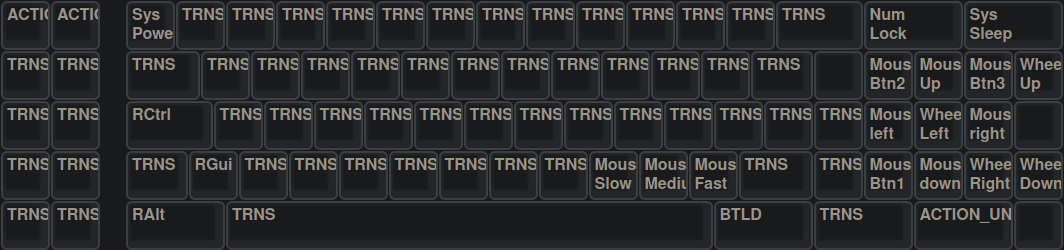
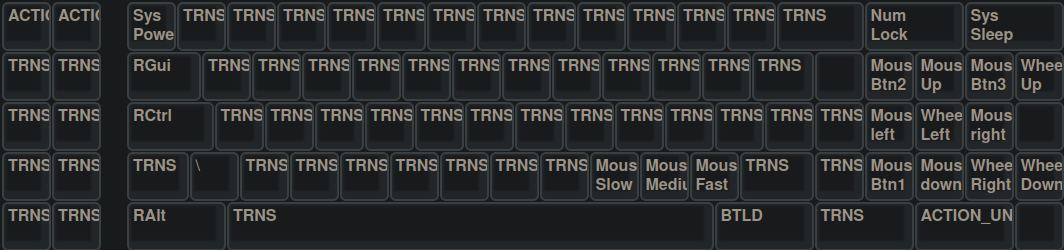
minor assignment changes

Changed region(s): [[0.1241, 0.0, 1.0, 1.0], [0.0, 0.392, 0.093, 1.0], [0.0, 0.0, 0.093, 0.364]]

diff --git a/unimap_plain.c b/unimap_plain.c
@@ -2,7 +2,7 @@
  * path:   /home/klassiker/.local/share/repos/zenith-xt-usb/unimap_plain.c
  * author: klassiker [mrdotx]
  * github: https://github.com/mrdotx/zenith-usb
- * date:   2021-03-01T12:59:21+0100
+ * date:   2021-03-02T00:04:50+0100
  */
 
 #include "unimap_trans.h"
@@ -14,7 +14,7 @@ enum macro_id {
 };
 
 #define AC_T1   ACTION_LAYER_TOGGLE(1)
-#define AC_LT1  ACTION_LAYER_TAP_KEY(1, KC_TAB)
+#define AC_LT1  ACTION_LAYER_TAP_KEY(1, KC__MUTE)
 #define AC_LT2  ACTION_LAYER_TAP_KEY(2, KC_INS)
 #define AC_M0   ACTION_MACRO(SETKB)
 #define AC_M1   ACTION_MACRO(AUTOSTART)
@@ -27,9 +27,9 @@ const action_t actionmaps[][UNIMAP_ROWS][UNIMAP_COLS] PROGMEM = {
 #endif
     UNIMAP(
               NO,  NO,  NO,  NO,  NO,  NO,  NO,  NO,  NO,  NO,  NO,  NO,
-    ESC,      F1,  F2,  F3,  F4,  F5,  F6,  F7,  F8,  F9,  F10, NO,  NO,            NO,  MUTE,NO,           NO,  NO,  NO,
+    ESC,      F1,  F2,  F3,  F4,  F5,  F6,  F7,  F8,  F9,  F10, NO,  NO,            NO,  LT1, NO,           NO,  NO,  NO,
     GRV, 1,   2,   3,   4,   5,   6,   7,   8,   9,   0,   MINS,EQL, NO,  BSPC,     NO,  NO,  NO,      T1,  NO,  PSCR,VOLD,
-    LT1, Q,   W,   E,   R,   T,   Y,   U,   I,   O,   P,   LBRC,RBRC,     LGUI,     NO,  NO,  NO,      HOME,UP,  PGUP,VOLU,
+    TAB, Q,   W,   E,   R,   T,   Y,   U,   I,   O,   P,   LBRC,RBRC,     LGUI,     NO,  NO,  NO,      HOME,UP,  PGUP,VOLU,
     CAPS,A,   S,   D,   F,   G,   H,   J,   K,   L,   SCLN,QUOT,     NO,  ENT,                         LEFT,PAUS,RGHT,NO,
     LSFT,NO,  Z,   X,   C,   V,   B,   N,   M,   COMM,DOT, SLSH,     NO,  RSFT,          NO,           END, DOWN,PGDN,NO,
     LCTL,NO,  LALT,NO,            SPC,           NO,  NO,  NO  ,NO  ,NO,  NO,       NO,  NO,  NO,           LT2, DEL, NO
@@ -37,30 +37,26 @@ const action_t actionmaps[][UNIMAP_ROWS][UNIMAP_COLS] PROGMEM = {
     /* function keys and num pad with tab key TAB(LT1) and layer toggle NUM LOCK(T1) */
     UNIMAP(
               NO,  NO,  NO,  NO,  NO,  NO,  NO,  NO,  NO,  NO,  NO,  NO,
-    TRNS,     F11, F12, F13, F14, F15, F16, F17, F18, F19, F20, NO,  NO,            NO,  SLCK,NO,           NO,  NO,  NO,
-    BSLS,P1,  P2,  P3,  P4,  P5,  P6,  P7,  P8,  P9,  P0,  TRNS,TRNS,NO,  TRNS,     NO,  NO,  NO,      TRNS,NO,  PAST,PMNS,
-    TAB, TRNS,TRNS,TRNS,TRNS,TRNS,TRNS,TRNS,TRNS,TRNS,TRNS,TRNS,TRNS,     LGUI,     NO,  NO,  NO,      7,   8,   9,   PPLS,
+    TRNS,     F11, F12, TRNS,TRNS,TRNS,TRNS,TRNS,TRNS,TRNS,TRNS,NO,  NO,            NO,  SLCK,NO,           NO,  NO,  NO,
+    TRNS,P1,  P2,  P3,  P4,  P5,  P6,  P7,  P8,  P9,  P0,  TRNS,TRNS,NO,  TRNS,     NO,  NO,  NO,      TRNS,NO,  PAST,PMNS,
+    TRNS,TRNS,TRNS,TRNS,TRNS,TRNS,TRNS,TRNS,TRNS,TRNS,TRNS,TRNS,TRNS,     LGUI,     NO,  NO,  NO,      7,   8,   9,   PPLS,
     TRNS,TRNS,TRNS,TRNS,TRNS,TRNS,TRNS,TRNS,TRNS,TRNS,TRNS,TRNS,     NO,  TRNS,                        4,   5,   6,   NO,
     TRNS,NO,  TRNS,TRNS,TRNS,TRNS,TRNS,TRNS,TRNS,TRNS,PDOT,TRNS,     NO,  TRNS,          NO,           1,   2,   3,   NO,
-    LCTL,NO,  LALT,NO,            TRNS,          NO,  NO  ,NO,  NO,  NO,  NO,       NO,  NO,  NO,           0,   DOT, NO
+    TRNS,NO,  TRNS,NO,            TRNS,          NO,  NO  ,NO,  NO,  NO,  NO,       NO,  NO,  NO,           0,   DOT, NO
     ),
     /* mouse functions with tap key INS(LT2) */
     UNIMAP(
               NO,  NO,  NO,  NO,  NO,  NO,  NO,  NO,  NO,  NO,  NO,  NO,
     PWR,      M1,  M2,  TRNS,TRNS,TRNS,TRNS,TRNS,TRNS,TRNS,TRNS,NO,  NO,            NO,  SLEP,NO,           NO,  NO,  NO,
     TRNS,TRNS,TRNS,TRNS,TRNS,TRNS,TRNS,TRNS,TRNS,TRNS,TRNS,TRNS,TRNS,NO,  TRNS,     NO,  NO,  NO,      NLCK,NO,  TRNS,WH_U,
-    TRNS,TRNS,TRNS,TRNS,TRNS,TRNS,TRNS,TRNS,TRNS,TRNS,TRNS,TRNS,TRNS,     RGUI,     NO,  NO,  NO,      BTN2,MS_U,BTN3,WH_D,
+    RGUI,TRNS,TRNS,TRNS,TRNS,TRNS,TRNS,TRNS,TRNS,TRNS,TRNS,TRNS,TRNS,     BSLS,     NO,  NO,  NO,      BTN2,MS_U,BTN3,WH_D,
     BTLD,TRNS,TRNS,TRNS,TRNS,TRNS,TRNS,TRNS,TRNS,TRNS,TRNS,TRNS,     NO,  TRNS,                        MS_L,WH_L,MS_R,NO,
     TRNS,NO,  TRNS,TRNS,TRNS,TRNS,TRNS,TRNS,TRNS,ACL0,ACL1,ACL2,     NO,  TRNS,          NO,           BTN1,MS_D,WH_R,NO,
     RCTL,NO,  RALT,NO,            TRNS,          NO,  NO  ,NO,  NO,  NO,  NO,       NO,  NO,  NO,           TRNS,M0,  NO
     ),
 };
 
-
-/*
- * macro definition
- */
-
+/* macro definitions */
 const macro_t *action_get_macro(keyrecord_t *record, uint8_t id, uint8_t opt)
 {
     switch (id) {
